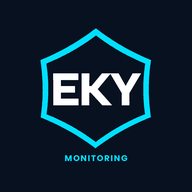
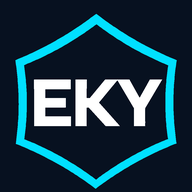
Add files via upload

Changed region(s): [[0.0625, 0.0625, 0.9375, 1.0]]

diff --git a/frontend/index.html b/frontend/index.html
@@ -229,7 +229,7 @@ tr:last-child td{border-bottom:none;}
 <div id="loginScreen">
   <div class="login-glow"></div>
   <div class="login-card">
-    <img src="logo-sidebar.png" alt="EKY Monitoring" style="width:96px;height:96px;display:block;margin:0 auto 8px">
+    <img src="logo-full.png" alt="EKY Monitoring" style="width:180px;height:auto;display:block;margin:0 auto 8px">
     <div class="login-sub">Remote ASIC Management</div>
     <div class="ltabs">
       <div class="ltab active" onclick="setLTab('admin',this)">Admin</div>
